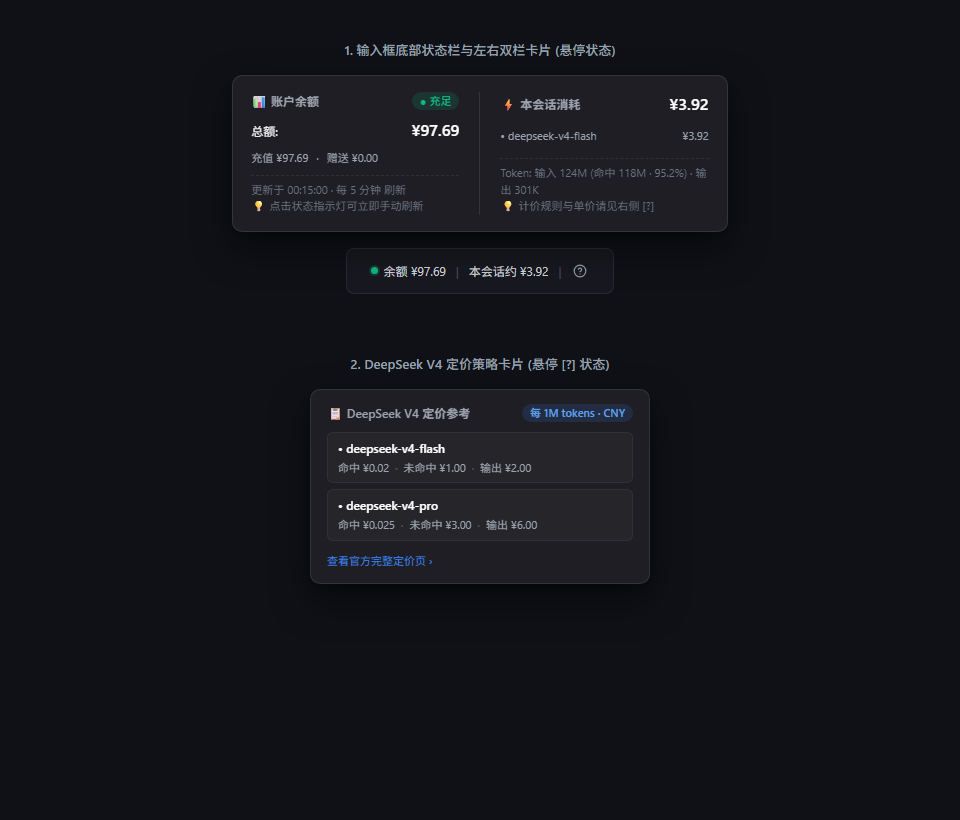
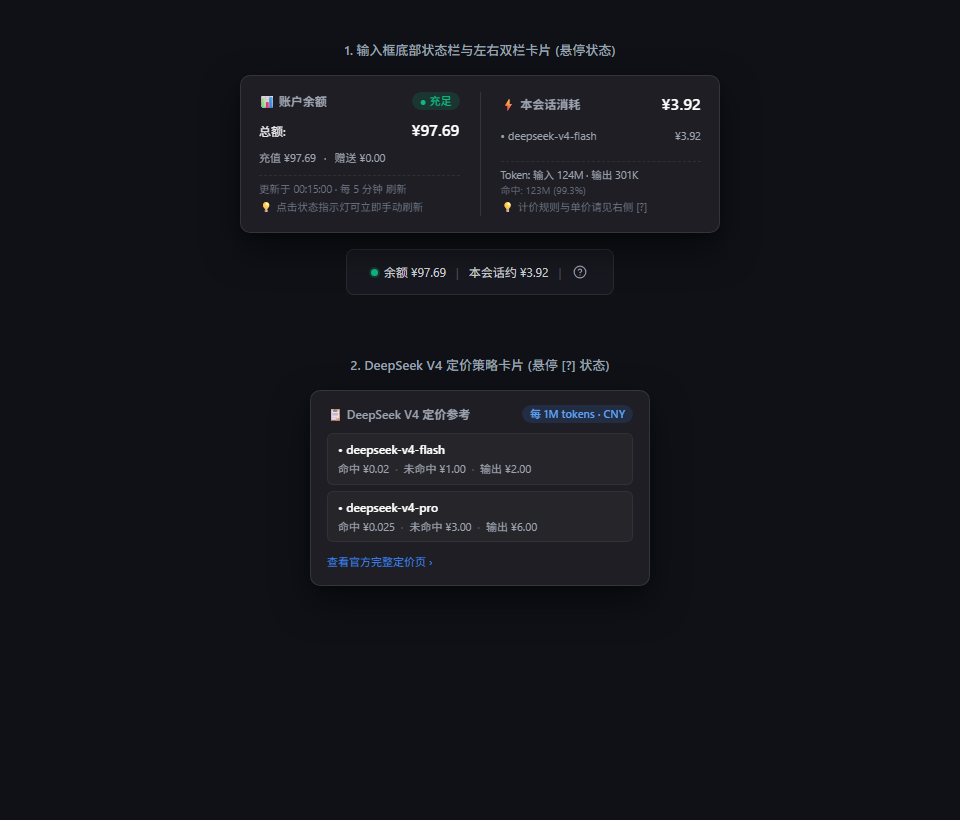
feat: split token and cache hit into two lines with smaller font

diff --git a/client/client.js b/client/client.js
@@ -57,7 +57,9 @@ window.__ModuleLoader__.load({
 				".dshqb_card_sub{font-size:11px;color:var(--dsw-alias-label-tertiary,#9ca3af);display:flex;gap:8px}",
 				".dshqb_card_models{margin:4px 0 0;padding:0;list-style:none;font-size:11px;color:var(--dsw-alias-label-secondary,#9ca3af);display:flex;flex-direction:column;gap:2px}",
 				".dshqb_card_models li{display:flex;justify-content:space-between;font-variant-numeric:tabular-nums}",
-				".dshqb_card_hint{font-size:11px;color:var(--dsw-alias-label-tertiary,#6b7280);margin-top:auto;padding-top:6px;border-top:1px dashed var(--dsw-alias-separator-primary,rgba(255,255,255,0.08))}",
+				".dshqb_card_hint{font-size:10.5px;color:var(--dsw-alias-label-tertiary,#6b7280);margin-top:auto;padding-top:6px;border-top:1px dashed var(--dsw-alias-separator-primary,rgba(255,255,255,0.08));display:flex;flex-direction:column;gap:3px}",
+				".dshqb_card_tokens{display:flex;flex-direction:column;gap:2px;font-size:10.5px;color:var(--dsw-alias-label-secondary,#9ca3af);line-height:1.35}",
+				".dshqb_card_hit{font-size:10px;color:var(--dsw-alias-label-tertiary,#6b7280);opacity:0.9}",
 				".dshqb_pricing_wrap{position:relative;display:inline-flex;align-items:center}",
 				".dshqb_pricing{color:var(--dsw-alias-label-tertiary);display:inline-flex;align-items:center;justify-content:center;padding:0 2px;border-radius:999px;text-decoration:none;line-height:1}",
 				".dshqb_pricing svg{display:block}",
@@ -217,8 +219,8 @@ window.__ModuleLoader__.load({
 			"card.granted": "赠送 {amount}",
 			"card.updated": "更新于 {time} · 每 {interval} 刷新",
 			"card.refreshHint": "💡 点击状态指示灯可立即手动刷新",
-			"card.tokens": "Token: 输入 {input} (命中 {hit} · {hitRate}%) · 输出 {output}",
-			"card.tokensNoHit": "Token: 输入 {input} · 输出 {output}",
+			"card.tokens": "Token: 输入 {input} · 输出 {output}",
+			"card.tokensHit": "命中: {hit} ({hitRate}%)",
 			"card.noCost": "本会话暂未产生消耗",
 			"card.pricingHint": "💡 计价规则与单价请见右侧 [?]",
 			"card.error": "【账户余额】异常: {error}",
@@ -251,8 +253,8 @@ window.__ModuleLoader__.load({
 			"card.granted": "Granted {amount}",
 			"card.updated": "Updated {time} · Every {interval}",
 			"card.refreshHint": "💡 Click status dot to refresh instantly",
-			"card.tokens": "Tokens: In {input} ({hit} hit · {hitRate}%) · Out {output}",
-			"card.tokensNoHit": "Tokens: In {input} · Out {output}",
+			"card.tokens": "Tokens: In {input} · Out {output}",
+			"card.tokensHit": "Cache hit: {hit} ({hitRate}%)",
 			"card.noCost": "No cost in this session yet",
 			"card.pricingHint": "💡 View pricing & rates via [?]",
 			"card.error": "【Account Balance】Error: {error}",
@@ -393,19 +395,18 @@ window.__ModuleLoader__.load({
 							const totalInput = (cost.tokens?.uncachedInput ?? 0) + (cost.tokens?.cacheRead ?? 0) + (cost.tokens?.cacheWrite ?? 0);
 							const cacheHit = cost.tokens?.cacheRead ?? 0;
 							const hitRate = totalInput > 0 ? (cacheHit / totalInput * 100).toFixed(1) : "0.0";
-							return react.createElement("div", { key: "tok" },
+							return react.createElement("div", { className: "dshqb_card_tokens", key: "tok" }, [
+								react.createElement("div", { key: "main" }, t("card.tokens", {
+									input: formatTokens(totalInput),
+									output: formatTokens(cost.tokens?.output ?? 0)
+								})),
 								cacheHit > 0
-									? t("card.tokens", {
-										input: formatTokens(totalInput),
+									? react.createElement("div", { className: "dshqb_card_hit", key: "hit" }, t("card.tokensHit", {
 										hit: formatTokens(cacheHit),
-										hitRate,
-										output: formatTokens(cost.tokens?.output ?? 0)
-									})
-									: t("card.tokensNoHit", {
-										input: formatTokens(totalInput),
-										output: formatTokens(cost.tokens?.output ?? 0)
-									})
-							);
+										hitRate
+									}))
+									: null
+							]);
 						})()
 						: null,
 					react.createElement("div", { key: "tip" }, t("card.pricingHint"))

diff --git a/README.md b/README.md
@@ -8,7 +8,7 @@ DeepSeek 余额实时显示插件: 在 dsh Web UI 输入框**下方、命中率/
 
 悬停读数可查看**左右双栏毛玻璃卡片**：
 - **左栏【📊 账户余额】**：实时大字总额、充足度 Badge、充值与赠送金额构成、5分钟自动刷新时间戳以及点击指示灯强刷指引。
-- **右栏【⚡ 本会话消耗】**：当前会话预估总花费、按模型细分明细（如 `• deepseek-v4-flash: ¥3.92`）、输入与输出 Token 吞吐统计（包含 **缓存命中 Token 数与命中率百分比**，如 `输入 124M (命中 118M · 95.2%) · 输出 301K`）。
+- **右栏【⚡ 本会话消耗】**：当前会话预估总花费、按模型细分明细（如 `• deepseek-v4-flash: ¥3.92`）、换行小字体展示输入/输出与缓存命中统计（如第一行 `Token: 输入 124M · 输出 301K` 与第二行 `命中: 123M (99.3%)`）。
 - **时间感知引擎**：内置 2026 年 8 月 17 日起 DeepSeek 谷峰计费自动切换机制（09:00~12:00, 14:00~18:00 峰时 / 其他时段 5 折谷时），全自动无缝同步。
 
 ![示例预览图](./assets/preview.png)
